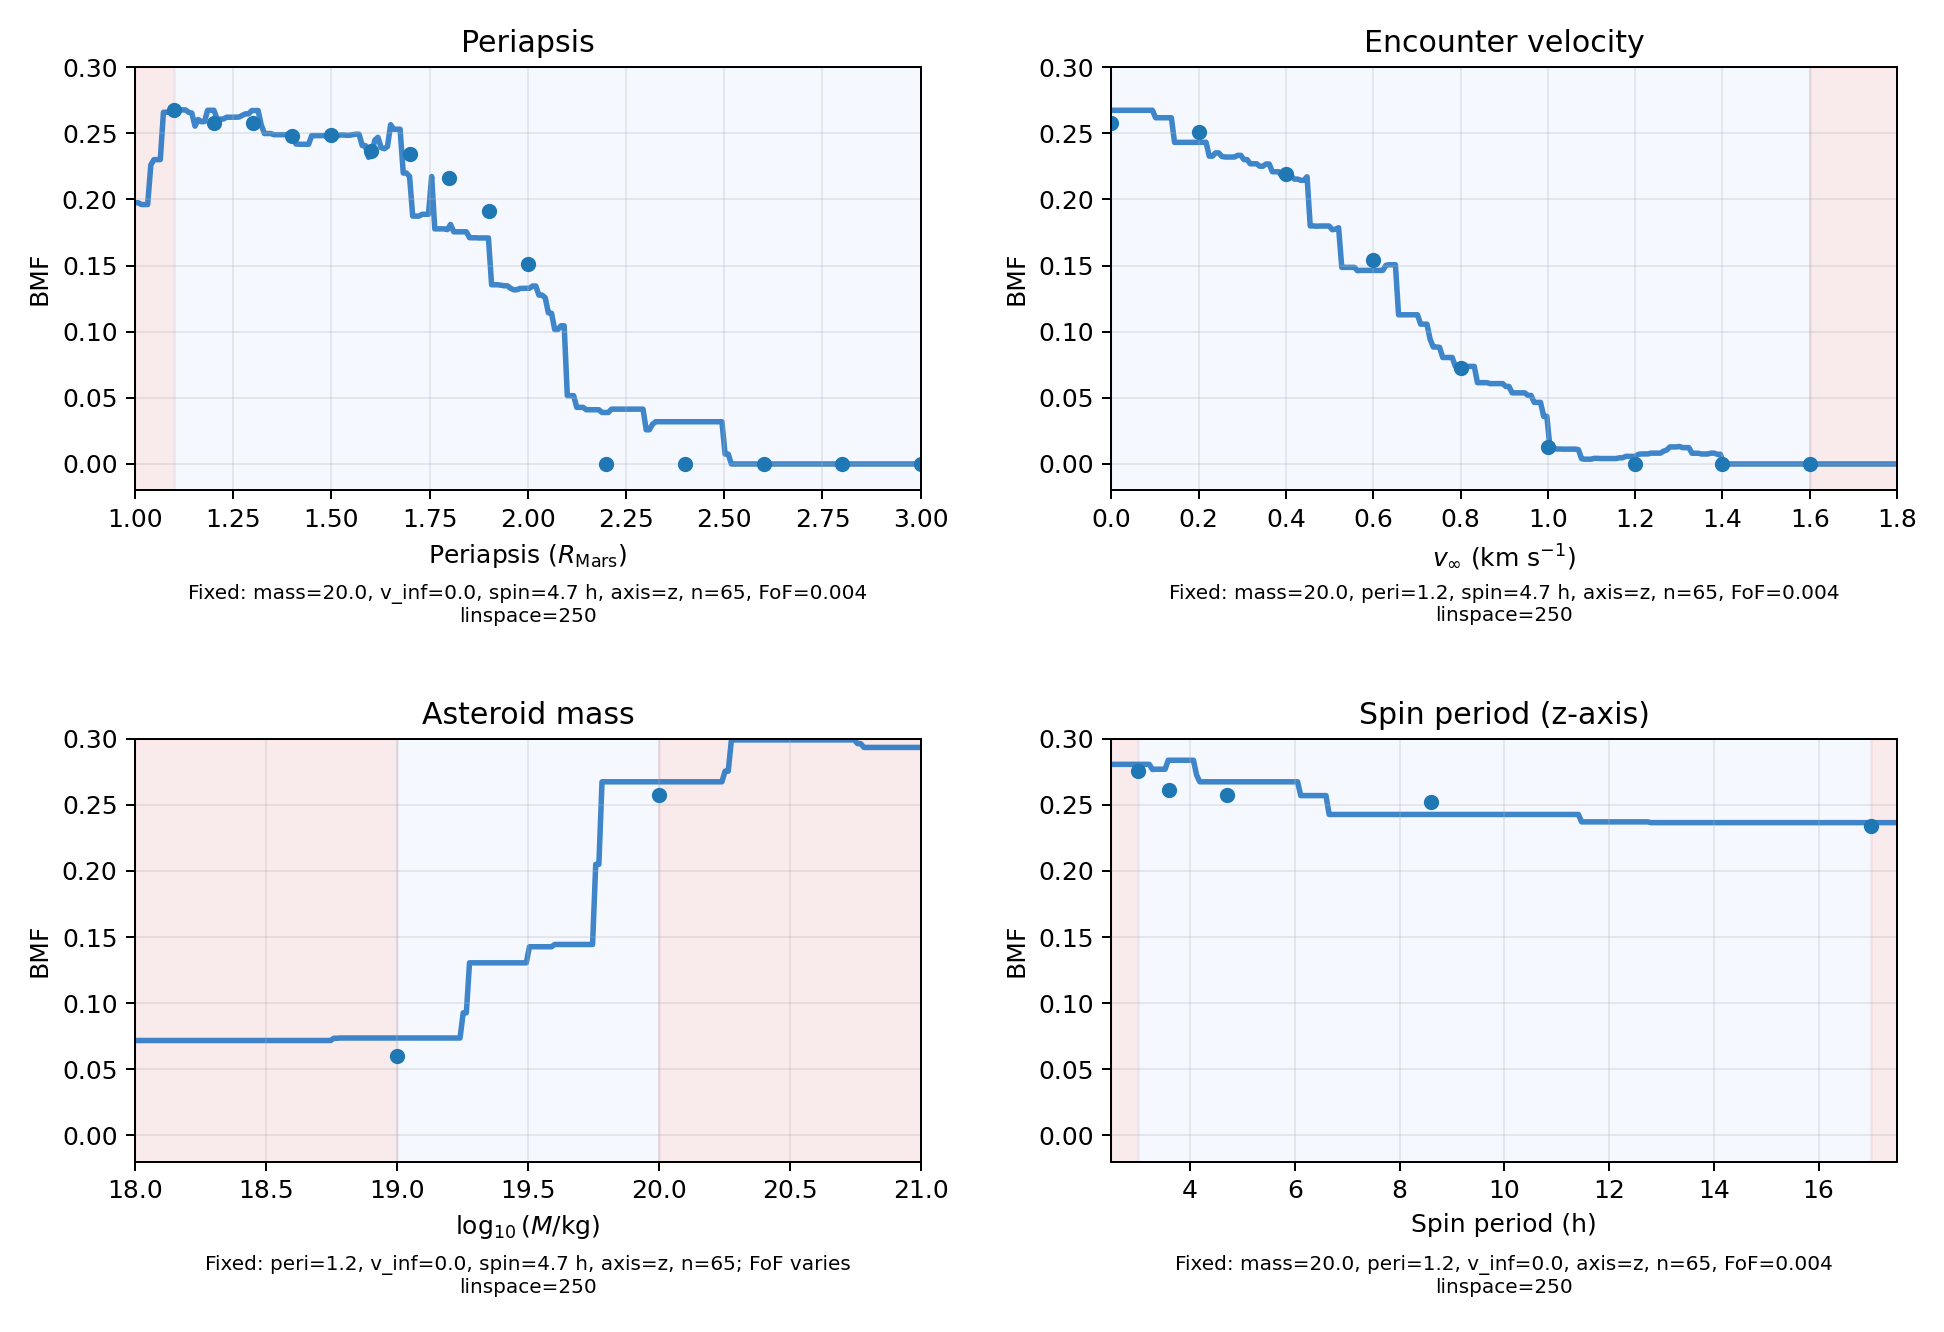
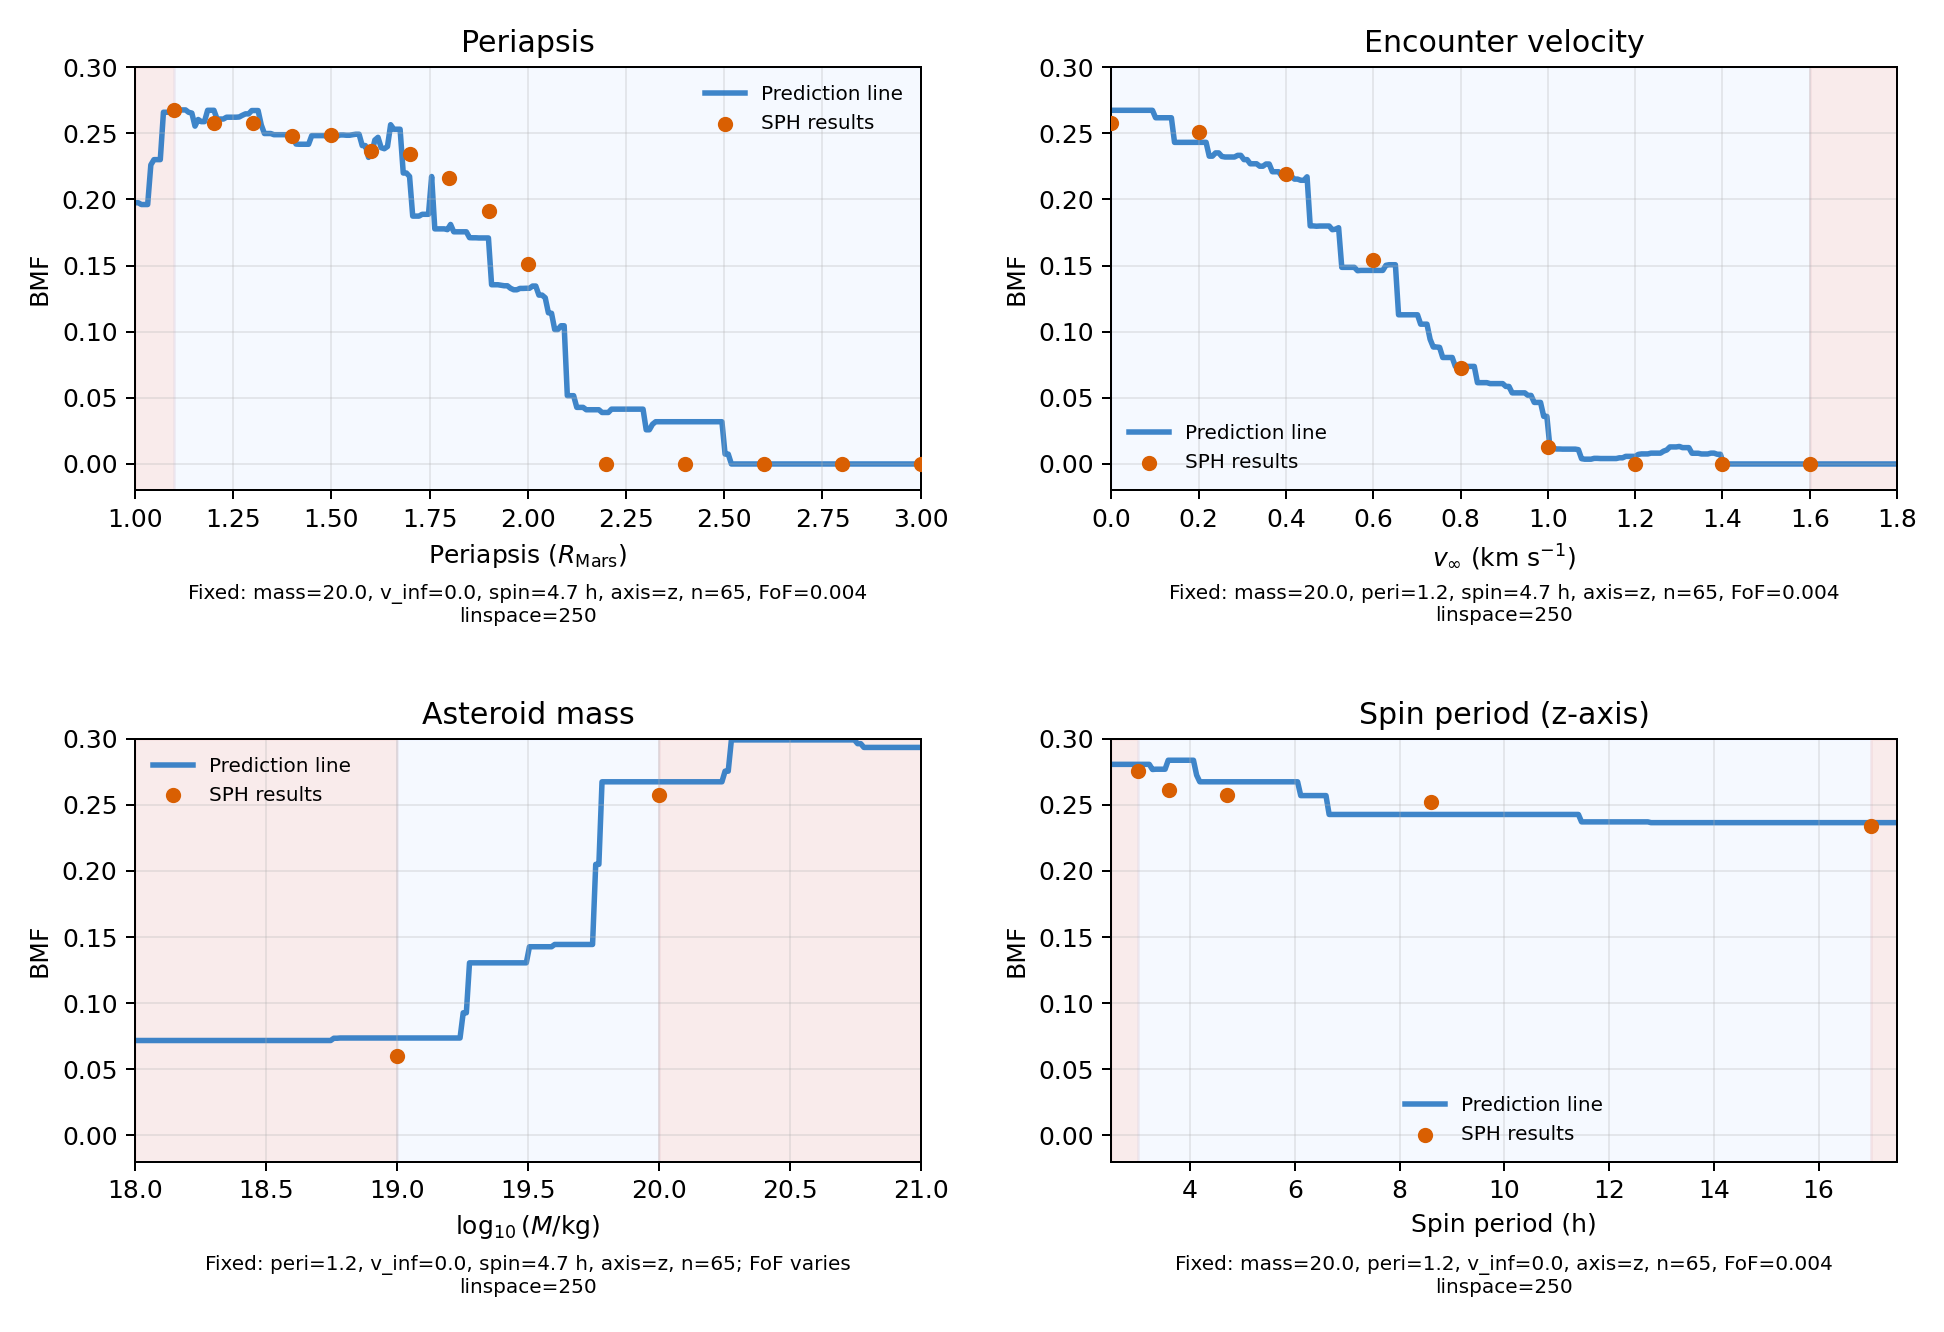
feat: script for figure 3 variation for eda

diff --git a/ml/figure3_variation/figure3_builder.py b/ml/figure3_variation/figure3_builder.py
@@ -112,9 +112,9 @@ def fit_model(model_key: str, frame: pd.DataFrame):
     return feature_columns, pipeline.fit(frame[feature_columns], target)
 
 
-def linspace_grid(base_row: pd.Series, parameter: str, x_min: float, x_max: float) -> pd.DataFrame:
-    x_values = np.linspace(x_min, x_max, GRID_POINTS)
-    grid = pd.concat([base_row.to_frame().T] * GRID_POINTS, ignore_index=True)
+def linspace_grid(base_row: pd.Series, parameter: str, x_min: float, x_max: float, grid_points: int = GRID_POINTS) -> pd.DataFrame:
+    x_values = np.linspace(x_min, x_max, grid_points)
+    grid = pd.concat([base_row.to_frame().T] * grid_points, ignore_index=True)
     grid[parameter] = x_values
     if parameter == "mass_log10_kg":
         grid["target_mass_kg"] = np.power(10.0, grid[parameter].astype(float))
@@ -160,10 +160,19 @@ def make_slice_specs(frame: pd.DataFrame) -> list[dict[str, object]]:
     ]
 
 
-def render_panel(ax: plt.Axes, frame: pd.DataFrame, feature_columns: list[str], model: object, spec: dict[str, object]) -> None:
+def render_panel(
+    ax: plt.Axes,
+    frame: pd.DataFrame,
+    feature_columns: list[str],
+    model: object,
+    spec: dict[str, object],
+    *,
+    grid_points: int = GRID_POINTS,
+    show_prediction_dots: bool = False,
+) -> None:
     slice_df = frame.loc[spec["mask"]].sort_values(spec["parameter"])
     base_row = frame.loc[spec["base_selector"]].iloc[0]
-    grid = linspace_grid(base_row, spec["parameter"], *spec["x_range"])
+    grid = linspace_grid(base_row, spec["parameter"], *spec["x_range"], grid_points=grid_points)
     predicted = np.clip(model.predict(grid[feature_columns]), 0.0, 1.0)
     observed = np.sort(slice_df[spec["parameter"]].astype(float).unique())
     observed_min, observed_max = float(observed.min()), float(observed.max())
@@ -172,27 +181,64 @@ def render_panel(ax: plt.Axes, frame: pd.DataFrame, feature_columns: list[str], 
     ax.axvspan(observed_min, observed_max, color=INTERPOLATION_COLOR, alpha=0.25, zorder=0)
     if observed_max < spec["x_range"][1]:
         ax.axvspan(observed_max, spec["x_range"][1], color=EXTRAPOLATION_COLOR, alpha=0.45, zorder=0)
-    ax.plot(grid[spec["parameter"]], predicted, color="#2a78c4", linewidth=2.2, alpha=0.9, zorder=1)
-    ax.scatter(slice_df[spec["parameter"]], slice_df[PRIMARY_TARGET], color="#1f77b4", s=26, zorder=2)
+    ax.plot(
+        grid[spec["parameter"]],
+        predicted,
+        color="#2a78c4",
+        linewidth=2.2,
+        alpha=0.9,
+        zorder=1,
+        label="Prediction line",
+    )
+    if show_prediction_dots:
+        ax.scatter(
+            grid[spec["parameter"]],
+            predicted,
+            color="#2a78c4",
+            s=12,
+            alpha=0.55,
+            zorder=2,
+            label="Prediction dots",
+        )
+    ax.scatter(
+        slice_df[spec["parameter"]],
+        slice_df[PRIMARY_TARGET],
+        color="#d95f02",
+        s=26,
+        zorder=3,
+        label="SPH results",
+    )
     ax.set_title(spec["title"])
     ax.set_xlabel(spec["x_label"])
     ax.set_ylabel("BMF")
     ax.set_xlim(*spec["x_range"])
     ax.set_ylim(-0.02, 0.30)
     ax.grid(True, alpha=0.25)
-    ax.text(0.5, -0.22, f"{spec['fixed_text']}\nlinspace={GRID_POINTS}", transform=ax.transAxes, ha="center", va="top", fontsize=8)
+    ax.legend(frameon=False, fontsize=8, loc="best")
+    footer = f"{spec['fixed_text']}\nlinspace={grid_points}"
+    if show_prediction_dots:
+        footer += " | prediction dots shown"
+    ax.text(0.5, -0.22, footer, transform=ax.transAxes, ha="center", va="top", fontsize=8)
 
 
-def make_figure(model_key: str) -> Path:
+def make_figure(model_key: str, *, suffix: str = "", grid_points: int = GRID_POINTS, show_prediction_dots: bool = False) -> Path:
     raw = load_canonical_dataset(DATASET_PATH)
     frame = add_physics_features(raw.copy())
     frame = frame.loc[frame[PRIMARY_TARGET].notna()].copy()
     feature_columns, model = fit_model(model_key, frame)
     fig, axes = plt.subplots(2, 2, figsize=(10.8, 7.4))
     for ax, spec in zip(axes.flat, make_slice_specs(frame)):
-        render_panel(ax, frame, feature_columns, model, spec)
+        render_panel(
+            ax,
+            frame,
+            feature_columns,
+            model,
+            spec,
+            grid_points=grid_points,
+            show_prediction_dots=show_prediction_dots,
+        )
     fig.tight_layout(h_pad=2.6, w_pad=2.2)
-    output_path = OUTPUT_DIR / f"figure3_{model_key}.png"
+    output_path = OUTPUT_DIR / f"figure3_{model_key}{suffix}.png"
     fig.savefig(output_path, dpi=180)
     plt.close(fig)
     return output_path
@@ -201,6 +247,9 @@ def make_figure(model_key: str) -> Path:
 def main() -> None:
     for model_key in MODEL_CONFIGS:
         print(make_figure(model_key))
+    print(make_figure("gb_tuned", suffix="_dots250", grid_points=250, show_prediction_dots=True))
+    print(make_figure("gb_tuned", suffix="_dots50", grid_points=50, show_prediction_dots=True))
+    print(make_figure("gb_tuned", suffix="_dots20", grid_points=20, show_prediction_dots=True))
     print(f"Created {len(MODEL_CONFIGS)} figure variants in {OUTPUT_DIR}")
 
 
